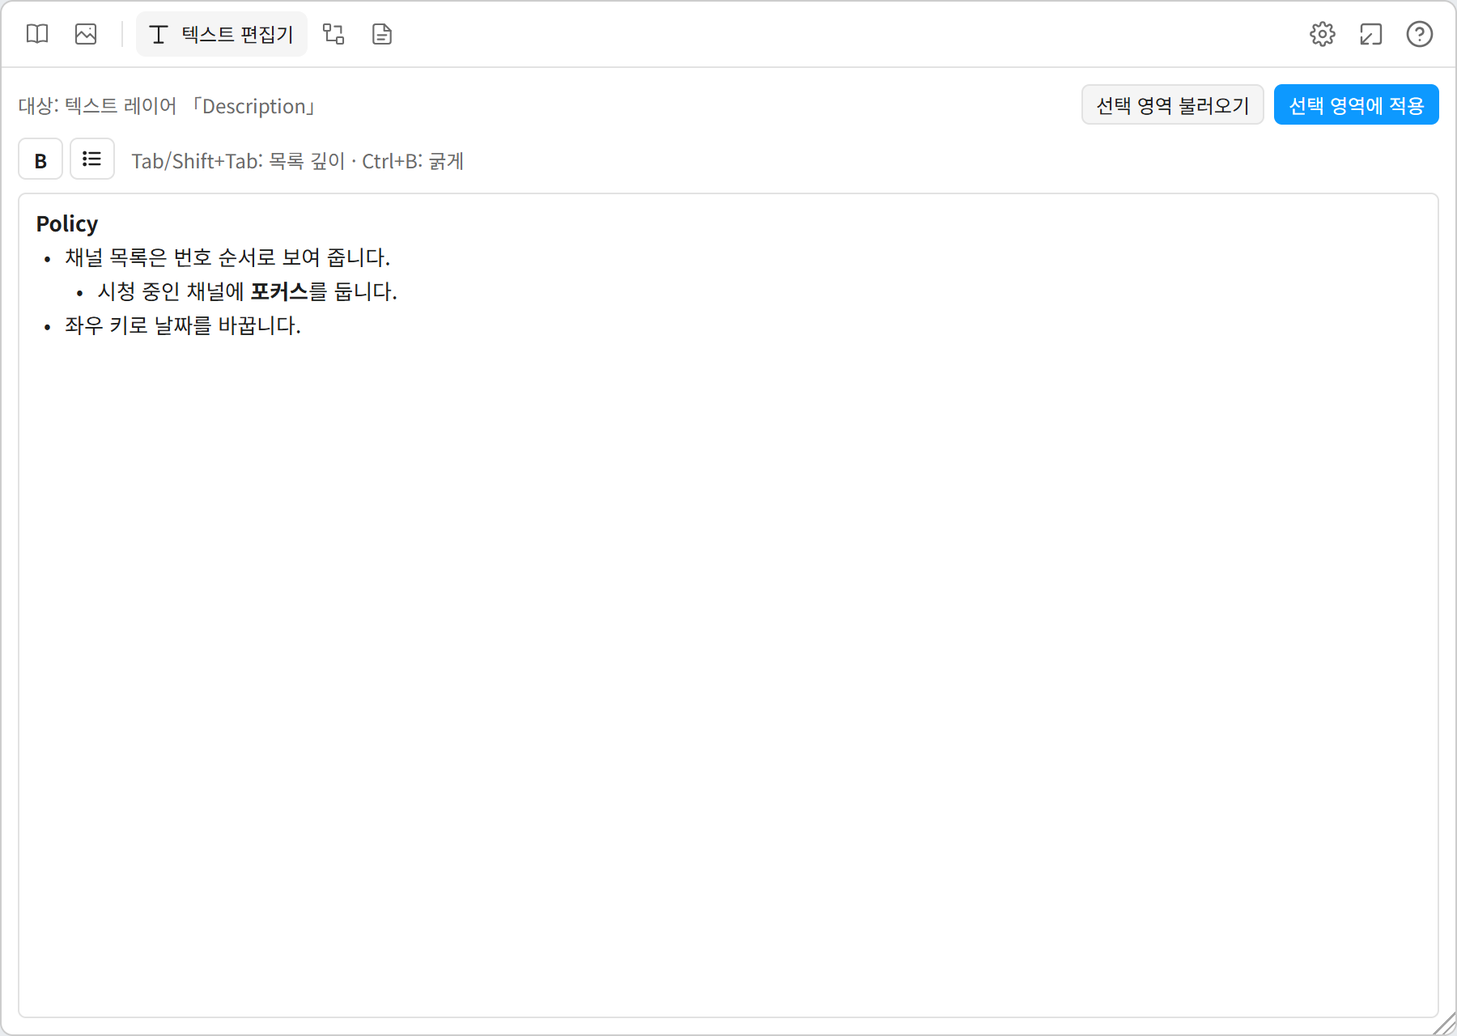
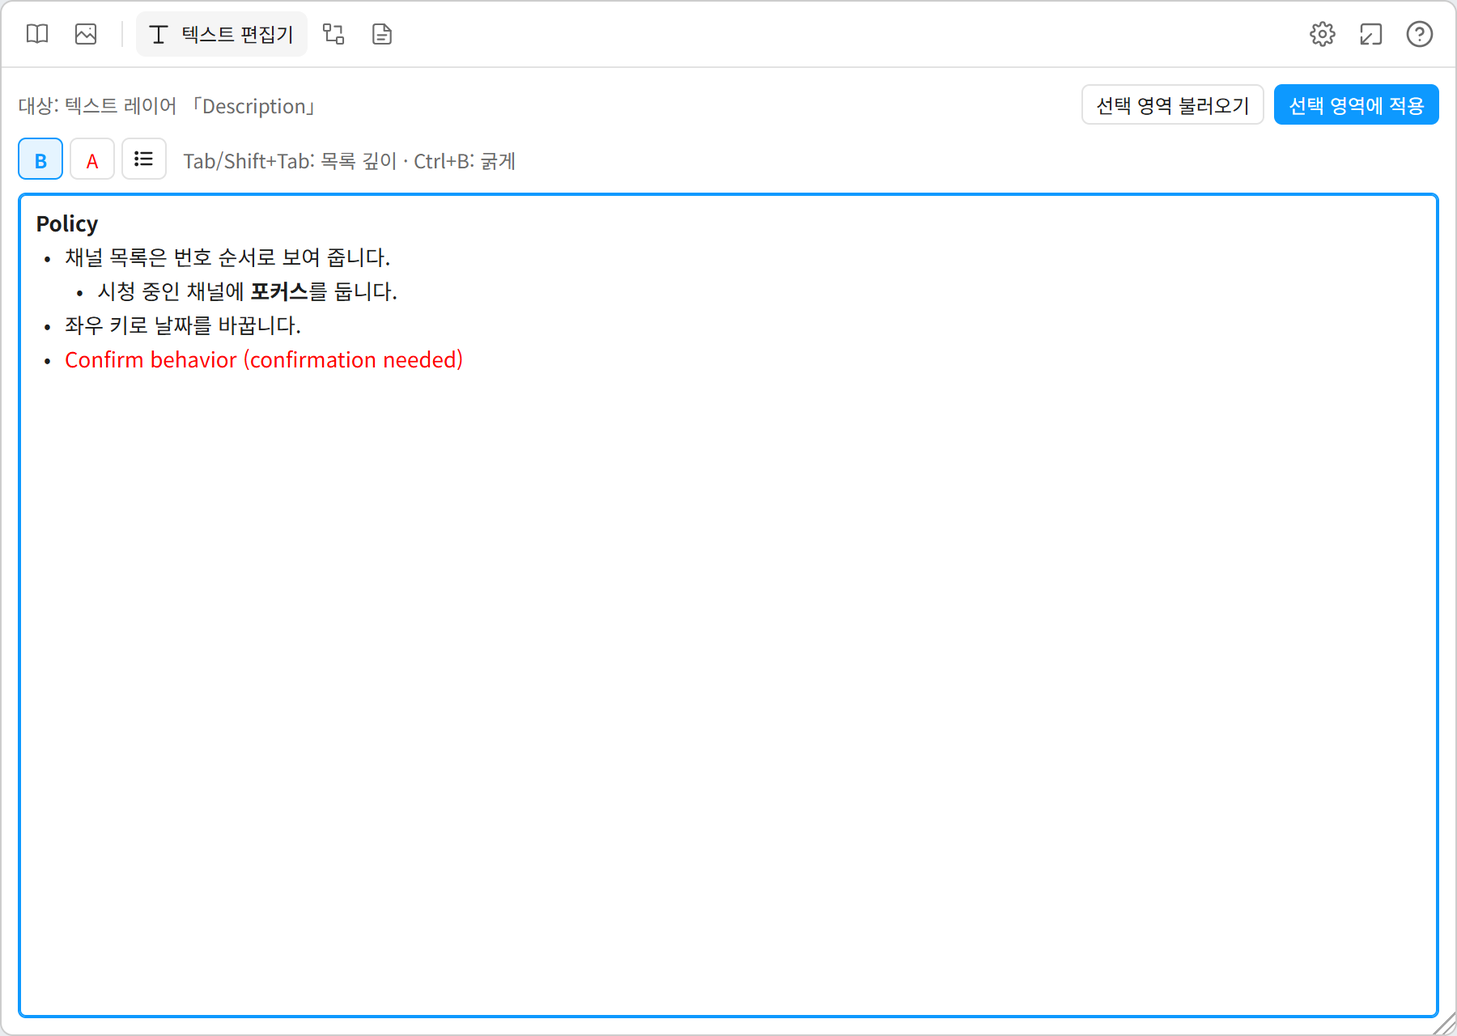
Support red text in UI flipbook editor

Changed region(s): [[0.0, 0.125, 0.3422, 0.2188], [0.0311, 0.3438, 0.3111, 0.375], [0.9644, 0.1875, 0.9956, 0.2188]]

diff --git a/src/ui/textEditor.ts b/src/ui/textEditor.ts
@@ -3,7 +3,7 @@ import type { SelectionTarget } from '../core/description.ts';
 import { esc } from './html.ts';
 import {
   backspaceAtStart, deleteRange, insertParagraphs, orderPos, outdentDepth, parseRichText, serializeRichText, setDepth, sliceParagraph,
-  splitParagraph, toggleBold, toggleList, type RichParagraph, type RichPos,
+  splitParagraph, toggleBold, toggleRed, isRed, toggleList, type RichParagraph, type RichPos,
 } from '../core/richText.ts';
 
 // 텍스트 편집 탭(2026-10-22 사용자 요청: STB Description Formatter를 UI Flipbook의 탭으로 옮기고 서식을 중첩 목록·굵게로 줄인다).
@@ -34,17 +34,20 @@ const LIST_ICON = '<svg width="14" height="14" viewBox="0 0 24 24" fill="none" s
 
 
 function paragraphHtml(p: RichParagraph): string {
-  let html = '', cursor = 0;
-  for (const r of [...p.bold].sort((a, b) => a.start - b.start)) {
-    html += `${esc(p.text.slice(cursor, r.start))}<b>${esc(p.text.slice(r.start, r.end))}</b>`;
-    cursor = r.end;
+  const cuts = [...new Set([0, p.text.length, ...p.bold.flatMap(r => [r.start, r.end]), ...(p.red ?? []).flatMap(r => [r.start, r.end])])].sort((a, b) => a - b);
+  let html = '';
+  for (let i = 0; i < cuts.length - 1; i++) {
+    const start = cuts[i], end = cuts[i + 1];
+    let part = esc(p.text.slice(start, end));
+    if (p.bold.some(r => r.start <= start && r.end >= end)) part = `<b>${part}</b>`;
+    if ((p.red ?? []).some(r => r.start <= start && r.end >= end)) part = `<span style="color:#ff0000">${part}</span>`;
+    html += part;
   }
-  html += esc(p.text.slice(cursor));
   const depth = p.depth === null ? '' : ` data-depth="${p.depth}" style="--depth:${p.depth}"`;
   return `<div class="rt-p"${depth}>${html || '<br>'}</div>`;
 }
 
-const clone = (doc: RichParagraph[]) => doc.map(p => ({ ...p, bold: p.bold.map(r => ({ ...r })) }));
+const clone = (doc: RichParagraph[]) => doc.map(p => ({ ...p, bold: p.bold.map(r => ({ ...r })), ...(p.red ? { red: p.red.map(r => ({ ...r })) } : {}) }));
 const hasText = (doc: RichParagraph[]) => doc.some(p => p.text.trim());
 
 export function textEditor(root: HTMLElement): TextEditor {
@@ -78,6 +81,8 @@ export function textEditor(root: HTMLElement): TextEditor {
           const start: number = current.text.length;
           probes.forEach((p, k) => { if (p.node === child) positions[k] = { block: out.length - 1, offset: start + Math.min(p.offset, text.length) }; });
           current.text += text;
+          const rgb = getComputedStyle(child.parentElement!).color.match(/[\d.]+/g)?.map(Number);
+          if (text && rgb && isRed({ r: rgb[0] / 255, g: rgb[1] / 255, b: rgb[2] / 255 })) (current.red ??= []).push({ start, end: current.text.length });
           const weight = Number(getComputedStyle(child.parentElement!).fontWeight) || 400;
           if (text && weight >= 600) current.bold.push({ start, end: current.text.length });
         } else if (child instanceof HTMLElement) {
@@ -185,6 +190,20 @@ export function textEditor(root: HTMLElement): TextEditor {
     // 커서만 있으면 다음에 칠 글자의 굵기를 바꾼다(브라우저 입력 상태).
     if (collapsed(sel)) { document.execCommand('bold'); syncButtons(); return; }
     apply(el, sel, toggleBold(doc, sel.anchor, sel.focus), sel);
+  }
+
+  function red(el: HTMLElement) {
+    sync(el);
+    const sel = selection(el);
+    if (!sel) return;
+    if (collapsed(sel)) {
+      const rgb = String(document.queryCommandValue('foreColor')).match(/[\d.]+/g)?.map(Number);
+      const on = rgb && isRed({ r: rgb[0] / 255, g: rgb[1] / 255, b: rgb[2] / 255 });
+      document.execCommand('foreColor', false, on ? '#333333' : '#ff0000');
+      syncButtons();
+      return;
+    }
+    apply(el, sel, toggleRed(doc, sel.anchor, sel.focus), sel);
   }
 
   function list(el: HTMLElement) {
@@ -305,6 +324,8 @@ export function textEditor(root: HTMLElement): TextEditor {
     const sel = document.activeElement === el ? selection(el) : null;
     const boldOn = !!sel && document.queryCommandState('bold');
     const listOn = !!sel && (() => { const [from, to] = blocksOf(sel); return doc.slice(from, to + 1).every(p => p.depth !== null); })();
+    const rgb = sel && String(document.queryCommandValue('foreColor')).match(/[\d.]+/g)?.map(Number);
+    root.querySelector('[data-rt="red"]')?.setAttribute('aria-pressed', String(!!rgb && isRed({ r: rgb[0] / 255, g: rgb[1] / 255, b: rgb[2] / 255 })));
     root.querySelector('[data-rt="bold"]')?.setAttribute('aria-pressed', String(boldOn));
     root.querySelector('[data-rt="list"]')?.setAttribute('aria-pressed', String(listOn));
     root.querySelector('[data-action="text-apply"]')?.toggleAttribute('disabled', !hasText(doc));
@@ -329,6 +350,7 @@ export function textEditor(root: HTMLElement): TextEditor {
         <button class="primary" data-action="text-apply">${COPY.uiApp306}</button></div>
       <div class="text-tools">
         <button class="text-tool" data-rt="bold" aria-pressed="false" title="${COPY.uiApp309} (Ctrl+B)" aria-label="${COPY.uiApp309}"><b>B</b></button>
+        <button class="text-tool" data-rt="red" aria-pressed="false" title="${COPY.uiTextRed}" aria-label="${COPY.uiTextRed}"><span style="color:#ff0000">A</span></button>
         <button class="text-tool" data-rt="list" aria-pressed="false" title="${COPY.uiApp310}" aria-label="${COPY.uiApp310}">${LIST_ICON}</button>
         <span class="note">${COPY.uiApp304}</span></div>
       <div class="rich-editor" contenteditable="true" role="textbox" aria-multiline="true" spellcheck="false" aria-label="${COPY.uiApp308}"></div>`;
@@ -338,7 +360,7 @@ export function textEditor(root: HTMLElement): TextEditor {
     // 버튼을 눌러도 편집기의 선택을 잃지 않게 한다.
     for (const button of view.querySelectorAll<HTMLElement>('[data-rt]')) {
       button.addEventListener('mousedown', ev => ev.preventDefault());
-      button.addEventListener('click', () => { el.focus(); if (button.dataset.rt === 'bold') bold(el); else list(el); });
+      button.addEventListener('click', () => { el.focus(); if (button.dataset.rt === 'bold') bold(el); else if (button.dataset.rt === 'red') red(el); else list(el); });
     }
     el.addEventListener('beforeinput', ev => onBeforeInput(el, ev as InputEvent));
     el.addEventListener('input', () => onInput(el));

diff --git a/src/core/richText.ts b/src/core/richText.ts
@@ -5,24 +5,32 @@
 
 export interface BoldRange { start: number; end: number }
 // depth: 목록 단계(0이 최상위), 목록이 아니면 null. bold: text 안의 굵은 글씨 범위
-export interface RichParagraph { text: string; depth: number | null; bold: BoldRange[] }
+export interface RichParagraph { text: string; depth: number | null; bold: BoldRange[]; red?: BoldRange[] }
 
 // 다른 곳에서 붙여 넣은 Markdown도 읽도록 공백 2칸도 한 단계로 본다.
 const BULLET = /^( *)[-*+][ \t]+(.*\S.*)$/;
 
-function inlineBold(source: string): { text: string; bold: BoldRange[] } {
-  const bold: BoldRange[] = [];
-  const pattern = /\*\*(.+?)\*\*/g;
+// Explicit markers keep color on the plain-text clipboard alongside bold.
+function inlineBold(source: string): { text: string; bold: BoldRange[]; red?: BoldRange[] } {
   let text = '', cursor = 0;
-  let match: RegExpExecArray | null;
-  while ((match = pattern.exec(source))) {
+  let boldStart: number | null = null, redStart: number | null = null;
+  const bold: BoldRange[] = [], red: BoldRange[] = [];
+  for (const match of source.matchAll(/\*\*|<red>|<\/red>/g)) {
     text += source.slice(cursor, match.index);
-    const start = text.length;
-    text += match[1];
-    bold.push({ start, end: text.length });
-    cursor = pattern.lastIndex;
+    const token = match[0], after = match.index! + token.length;
+    if (token === '**' && boldStart !== null) {
+      if (text.length > boldStart) bold.push({ start: boldStart, end: text.length });
+      boldStart = null;
+    } else if (token === '**' && source.indexOf('**', after) > after) boldStart = text.length;
+    else if (token === '<red>' && redStart === null && source.indexOf('</red>', after) >= after) redStart = text.length;
+    else if (token === '</red>' && redStart !== null) {
+      if (text.length > redStart) red.push({ start: redStart, end: text.length });
+      redStart = null;
+    } else text += token;
+    cursor = after;
   }
-  return { text: text + source.slice(cursor), bold };
+  text += source.slice(cursor);
+  return { text, bold, ...(red.length ? { red } : {}) };
 }
 
 export function parseRichText(source: string): RichParagraph[] {
@@ -68,7 +76,14 @@ function markBold(text: string, bold: BoldRange[]): string {
 
 export function serializeRichText(paragraphs: RichParagraph[]): string {
   return paragraphs.map(p => {
-    const body = markBold(p.text, p.bold);
+    const red = mergeBold(p.red ?? []);
+    const cuts = [...new Set([0, p.text.length, ...red.flatMap(r => [r.start, r.end])])].sort((a, b) => a - b);
+    let body = '';
+    for (let i = 0; i < cuts.length - 1; i++) {
+      const start = cuts[i], end = cuts[i + 1];
+      const part = markBold(p.text.slice(start, end), clipBold(p.bold, start, end));
+      body += red.some(r => r.start <= start && r.end >= end) ? `<red>${part}</red>` : part;
+    }
     return p.depth === null || !p.text.trim() ? body : `${'\t'.repeat(p.depth)}- ${body}`;
   }).join('\n');
 }
@@ -99,13 +114,14 @@ function mergeBold(bold: BoldRange[]): BoldRange[] {
 }
 
 export function sliceParagraph(p: RichParagraph, start: number, end = p.text.length): RichParagraph {
-  return { text: p.text.slice(start, end), depth: p.depth, bold: clipBold(p.bold, start, end) };
+  return { text: p.text.slice(start, end), depth: p.depth, bold: clipBold(p.bold, start, end), ...(p.red ? { red: clipBold(p.red, start, end) } : {}) };
 }
 
 // 앞 문단의 목록 단계를 따른다.
 function joinParagraphs(a: RichParagraph, b: RichParagraph): RichParagraph {
   const shift = a.text.length;
-  return { text: a.text + b.text, depth: a.depth, bold: mergeBold([...a.bold, ...b.bold.map(r => ({ start: r.start + shift, end: r.end + shift }))]) };
+  const red = a.red || b.red ? { red: mergeBold([...(a.red ?? []), ...(b.red ?? []).map(r => ({ start: r.start + shift, end: r.end + shift }))]) } : {};
+  return { text: a.text + b.text, depth: a.depth, ...red, bold: mergeBold([...a.bold, ...b.bold.map(r => ({ start: r.start + shift, end: r.end + shift }))]) };
 }
 
 // 고른 범위를 지운다. 여러 문단에 걸치면 첫 문단에 마지막 문단의 나머지를 붙인다.
@@ -189,4 +205,13 @@ export function toggleBold(doc: RichParagraph[], a: RichPos, b: RichPos): RichPa
     const kept = p.bold.flatMap(r => [{ start: r.start, end: Math.min(r.end, s.start) }, { start: Math.max(r.start, s.end), end: r.end }]);
     return { ...p, bold: mergeBold(allBold ? kept : [...kept, s]) };
   });
+}
+
+export function toggleRed(doc: RichParagraph[], a: RichPos, b: RichPos): RichParagraph[] {
+  return toggleBold(doc.map(p => ({ ...p, bold: p.red ?? [] })), a, b)
+    .map((p, i) => ({ ...doc[i], red: p.bold }));
+}
+
+export function isRed(color: { r: number; g: number; b: number }): boolean {
+  return color.r >= 0.5 && color.r > color.g * 1.5 && color.r > color.b * 1.5;
 }

diff --git a/src/figma/richText.ts b/src/figma/richText.ts
@@ -1,4 +1,5 @@
 import { COPY } from '../core/copy.ts';
+import { isRed } from '../core/richText.ts';
 import type { RichParagraph } from '../core/richText.ts';
 
 // 텍스트 편집 탭: 캔버스에서 고른 텍스트 레이어 하나를 읽고 쓴다. 글꼴·크기·행간·색은 레이어 것을 그대로 두고
@@ -16,7 +17,7 @@ export function selectedTextNode(): TextNode {
 
 export function readRichText(node: TextNode): RichParagraph[] {
   const chars = node.characters;
-  const segments = chars.length ? node.getStyledTextSegments(['fontName']) : [];
+  const segments = chars.length ? node.getStyledTextSegments(['fontName', 'fills']) : [];
   let offset = 0;
   return chars.split('\n').map(line => {
     const start = offset, end = offset + line.length;
@@ -33,7 +34,9 @@ export function readRichText(node: TextNode): RichParagraph[] {
         depth = typeof indentation === 'number' ? Math.max(0, indentation - 1) : 0;
       }
     }
-    return { text: line, depth, bold };
+    const red = segments.filter(s => s.fills?.some(p => p.type === 'SOLID' && p.visible !== false && (p.opacity ?? 1) > 0 && isRed(p.color)) && s.end > start && s.start < end)
+      .map(s => ({ start: Math.max(start, s.start) - start, end: Math.min(end, s.end) - start }));
+    return { text: line, depth, bold, ...(red.length ? { red } : {}) };
   });
 }
 
@@ -76,8 +79,12 @@ export async function writeRichText(node: TextNode, paragraphs: RichParagraph[])
 // textFonts로 글꼴을 불러온 레이어에 쓴다. 여러 레이어를 바꿀 때 모든 글꼴을 먼저 불러온 뒤 차례로 쓴다.
 export function applyRichText(node: TextNode, paragraphs: RichParagraph[], { regular, bold }: TextFonts): void {
   const text = paragraphs.map(p => p.text).join('\n');
+  const segments = node.characters.length ? node.getStyledTextSegments(['fills']) : [];
+  const base = segments.find(s => s.fills?.length && !s.fills.some(p => p.type === 'SOLID' && isRed(p.color)))?.fills ?? (node.fills !== figma.mixed && node.fills?.length && !node.fills.some(p => p.type === 'SOLID' && isRed(p.color)) ? node.fills : undefined);
+  const hadRed = segments.some(s => s.fills?.some(p => p.type === 'SOLID' && isRed(p.color)));
   node.characters = text;
   if (!text.length) return;
+  if (hadRed || paragraphs.some(p => p.red?.length)) node.setRangeFills(0, text.length, base ? [...base] : [{ type: 'SOLID', color: { r: 0.2, g: 0.2, b: 0.2 } }]);
   node.setRangeFontName(0, text.length, regular);
   node.setRangeListOptions(0, text.length, { type: 'NONE' });
   node.setRangeIndentation(0, text.length, 0);
@@ -89,6 +96,7 @@ export function applyRichText(node: TextNode, paragraphs: RichParagraph[], { reg
         node.setRangeListOptions(offset, end, { type: 'UNORDERED' });
         node.setRangeIndentation(offset, end, p.depth + 1);
       }
+      for (const range of p.red ?? []) if (range.end > range.start) node.setRangeFills(offset + range.start, offset + range.end, [{ type: 'SOLID', color: { r: 1, g: 0, b: 0 } }]);
       for (const range of p.bold) if (range.end > range.start) node.setRangeFontName(offset + range.start, offset + range.end, bold);
     }
     offset = end + 1;

diff --git a/test/richText.test.ts b/test/richText.test.ts
@@ -1,7 +1,7 @@
 import assert from 'node:assert/strict';
 import { test } from 'node:test';
 import { COPY } from '../src/core/copy.ts';
-import { backspaceAtStart, deleteRange, insertParagraphs, parseRichText, serializeRichText, setDepth, splitParagraph, toggleBold, toggleList, type RichParagraph } from '../src/core/richText.ts';
+import { backspaceAtStart, deleteRange, insertParagraphs, parseRichText, serializeRichText, setDepth, splitParagraph, toggleBold, toggleRed, toggleList, type RichParagraph } from '../src/core/richText.ts';
 import { readRichText, selectedTextNode, writeRichText } from '../src/figma/richText.ts';
 
 test('목록·중첩·굵게를 읽고, 그 밖의 줄은 그대로 일반 문단으로 둔다', () => {
@@ -215,4 +215,39 @@ test('전체가 굵은 레이어는 같은 계열의 Regular를 본문으로 쓴
   const node = new FakeText(loaded, '제목', { family: 'Inter', style: 'Bold' });
   await writeRichText(node as unknown as TextNode, parseRichText('본문 **굵게**'));
   assert.deepEqual(node.getStyledTextSegments().map(s => s.fontName.style), ['Regular', 'Bold']);
+});
+
+
+test('red survives nested bold, clipboard, split, join and removal', () => {
+  const doc = parseRichText('- <red>before **bold** after</red>');
+  assert.equal(doc[0].text, 'before bold after');
+  assert.deepEqual(doc[0].red, [{ start: 0, end: 17 }]);
+  assert.equal(md(parseRichText(md(doc))), md(doc));
+  const split = splitParagraph(doc, pos(0, 8), pos(0, 8));
+  assert.ok(split.doc.every(p => p.red?.length));
+  const joined = backspaceAtStart(split.doc.map(p => ({ ...p, depth: null })), 1).doc;
+  assert.deepEqual(joined[0].red, doc[0].red);
+  assert.deepEqual(toggleRed(doc, pos(0, 0), pos(0, 17))[0].red, []);
+  assert.deepEqual(toggleRed([{ text: 'plain', depth: null, bold: [] }], pos(0, 1), pos(0, 4))[0].red, [{ start: 1, end: 4 }]);
+});
+
+
+test('Figma red and bold round trip and red removal restores body color', async () => {
+  const loaded = setup(['Inter/Regular', 'Inter/Bold']);
+  const node = new FakeText(loaded, 'old', { family: 'Inter', style: 'Regular' }) as any;
+  const body = { type: 'SOLID', color: { r: 0.15, g: 0.15, b: 0.15 } };
+  let colors: any[] = Array.from(node.text, () => [body]);
+  node.getStyledTextSegments = () => node.chars.map((c: Char, i: number) => ({ start: i, end: i + 1, fontName: c.font, fills: colors[i] ?? [body] }));
+  node.setRangeFills = (start: number, end: number, fills: unknown[]) => {
+    assert.ok(start < end && end <= node.text.length);
+    for (let i = start; i < end; i++) colors[i] = fills;
+  };
+  await writeRichText(node, parseRichText('plain <red>**red**</red> end'));
+  const read = readRichText(node);
+  assert.equal(md(read), 'plain <red>**red**</red> end');
+  assert.equal(colors[0][0].color.r, 0.15);
+  assert.equal(colors[6][0].color.r, 1);
+  await writeRichText(node, parseRichText('plain **red** end'));
+  assert.ok(colors.slice(0, node.text.length).every(c => c[0].color.r === 0.15));
+  assert.equal(md(readRichText(node)), 'plain **red** end');
 });

diff --git a/release/guide.html b/release/guide.html
@@ -348,7 +348,7 @@ footer { color: var(--muted); font-size: 13px; text-align: center; margin-top: 2
   </ol>
   <figure>
     <img src="screens/ui-text.png" alt="텍스트 편집 탭: 굵게·목록 버튼, 글머리표와 굵은 글씨로 보이는 편집기, 선택 영역 불러오기와 선택 영역에 적용 버튼">
-    <figcaption>텍스트 편집 탭. 불러오기와 적용은 버튼을 누를 때만 하므로 캔버스 선택이 바뀌어도 편집기 내용은 그대로입니다. <code>- </code>·<code>**</code>로 쓴 글을 붙여 넣어도 목록·굵게로 바뀝니다.</figcaption>
+    <figcaption>빨간 글씨 버튼으로 색을 지정하고 <code>&lt;red&gt;내용&lt;/red&gt;</code>로 복사·붙여넣습니다. 텍스트 편집 탭. 불러오기와 적용은 버튼을 누를 때만 하므로 캔버스 선택이 바뀌어도 편집기 내용은 그대로입니다. <code>- </code>·<code>**</code>로 쓴 글을 붙여 넣어도 목록·굵게로 바뀝니다.</figcaption>
   </figure>
 
   <h3>플로우 편집기</h3>

diff --git a/src/core/copy.ts b/src/core/copy.ts
@@ -364,6 +364,7 @@ export const COPY = {
   uiApp306: "선택 영역에 적용",
   uiApp307: "플립북, 텍스트 또는 프레임 선택",
   uiApp308: "텍스트 입력",
+  uiTextRed: "빨간 글씨",
   uiApp309: "굵게",
   uiApp310: "목록",
   // 새 플립북 오른쪽 영역(2026-10-22 사용자 요청)

diff --git a/BEHAVIOR.md b/BEHAVIOR.md
@@ -388,6 +388,8 @@
 
 ### 텍스트 편집
 
+- 빨간 글씨 버튼으로 선택 범위의 색을 켜고 끈다. 커서만 있으면 다음 입력에 적용한다. 기존 빨간 글씨를 불러오며, `<red>확인할 내용 (확인 필요)</red>` 형식으로 복사·붙여넣는다. 굵게·목록과 함께 쓸 수 있으며 문구를 자동 추가하지 않는다. 빨간색은 `#FF0000`, 해제한 글은 본문 색(없으면 `#333333`)을 쓴다.
+
 캔버스에서 고른 플립북의 Description 본문 영역, 플립북 밖의 텍스트 레이어 하나나 프레임 하나에 중첩 목록과 굵은 글씨를 넣는다.
 
 - **화면**
@@ -395,7 +397,7 @@
   - 대상 이름은 한 줄로 보여 주며 넘치면 말줄임(…)으로 줄인다. 오류 문구는 줄바꿈해 끝까지 보여 준다.
   - 대상은 탭이 보이는 동안만 찾는다.
   - 편집기 내용은 탭과 관리를 오가도 남고(플러그인을 닫으면 지워짐), 비어 있으면 적용할 수 없다.
-- **편집기**: 글머리표와 굵은 글씨가 그대로 보이는 편집기다. 서식은 목록(모든 단계 글머리표 •)과 굵게뿐이며 제목·번호 목록·기울임·밑줄은 없다.
+- **편집기**: 글머리표와 굵은 글씨가 그대로 보이는 편집기다. 서식은 목록(모든 단계 글머리표 •)과 굵게, 빨간 글씨이며 제목·번호 목록·기울임·밑줄은 없다.
   - **Tab**은 고른 문단을 한 단계 깊게(일반 문단은 최상위 목록으로, 바로 앞 문단보다 한 단계까지만), **Shift+Tab**은 한 단계 얕게(최상위면 글머리표를 뗌) 한다. 얕게 하거나 글머리표를 떼면 바로 뒤에 이어지는 하위 항목도 앞 항목보다 한 단계까지만 깊도록 맞춘다(빈 줄이나 일반 문단에서 멈춤).
   - **Ctrl+B**(머리의 B 버튼)는 고른 범위가 모두 굵으면 풀고 아니면 굵게 하며, 커서만 있으면 다음에 칠 글자의 굵기를 바꾼다.
   - 목록 버튼은 고른 문단이 모두 목록이면 글머리표를 떼고 아니면 목록으로 만든다. 일반 문단 처음에 `- `(또는 `* `)를 치면 목록이 된다.
@@ -413,7 +415,7 @@
   - 서로 다른 플립북을 함께 고르면 「한 플립북만 선택하세요」라고 알린다. 플립북 밖에서 텍스트 레이어나 프레임 하나를 고르지 않은 경우에만 선택 오류를 낸다.
   - 불러오기·적용은 버튼으로만 하며, 캔버스 선택이 바뀌어도 편집기 내용을 바꾸지 않는다.
 - **글꼴과 간격**
-  - 텍스트 레이어 하나를 고르면 그 레이어의 글꼴·크기·행간·색을 유지한다.
+  - 텍스트 레이어 하나를 고르면 그 레이어의 글꼴·크기·행간을 유지하며, 색은 빨간 글씨 지정·해제에 따라 적용한다.
   - Description에 새로 만드는 제목·본문 레이어는 슬롯에 있던 보이는 텍스트(템플릿의 예시 문구나 이전에 적용한 묶음, 굵지 않은 글자가 있는 레이어 우선)의 글꼴 계열·크기·행간·자간·색을 이어받는다. 묶음 안 제목과 본문 사이 간격은 이전에 적용한 묶음 것을 쓴다.
   - 프레임에 새로 만드는 제목·본문 레이어는 그 프레임에 이전에 추가한 감싸는 프레임이 있으면 마지막 것에서 같은 방식으로 서식과 간격을 이어받고, 없으면 Description 슬롯에 이어받을 텍스트가 없을 때의 기본값을 쓴다.
   - 묶음이 둘 이상이면 플립북 템플릿(Policy 묶음 아래·Navigation 묶음 위 여백 15)과 같게 첫 묶음 아래와 마지막 묶음 위에 여백 15를 둔다. 프레임에 추가할 때도 감싸는 프레임의 간격 12에 더해 같은 여백을 둔다. 제목 문구가 아니라 자리로 정하므로 Policy나 Navigation 없이 쓰면 그 자리의 다른 묶음에 붙고, 묶음이 하나면 여백을 두지 않는다.

diff --git a/README.md b/README.md
@@ -108,3 +108,5 @@ npm run release -- 1.2.0 --notes-file notes.md  # 여러 줄 설명은 파일로
 ### 저장 데이터 호환
 
 기록은 Figma 파일의 `sharedPluginData`(네임스페이스 `guiuipublish`)와 `[자동 관리] DATA` 페이지에 있습니다. 이미 쓰고 있는 파일의 기록이 계약이므로 키·지문 형식을 바꿀 때는 [CONVENTION.md](CONVENTION.md)의 「기록·동시 작업·호환성」을 따릅니다. 이전 버전 데이터는 전체 자동 이관하지 않고 읽기 호환으로 처리합니다. 관리의 「자동 관리 페이지」에서 DATA 연결·갱신과 `[자동 관리] GUI 썸네일` 페이지 생성·이동을 할 수 있습니다. 관리의 「데이터 초기화」는 파일의 기록과 연결 표식을 모두 지웁니다.
+
+텍스트 편집기의 빨간 글씨 버튼으로 색을 지정하고 해제합니다. `<red>내용 (확인 필요)</red>` 형식으로 복사·붙여넣을 수 있으며 굵게·목록과 함께 쓸 수 있습니다.
